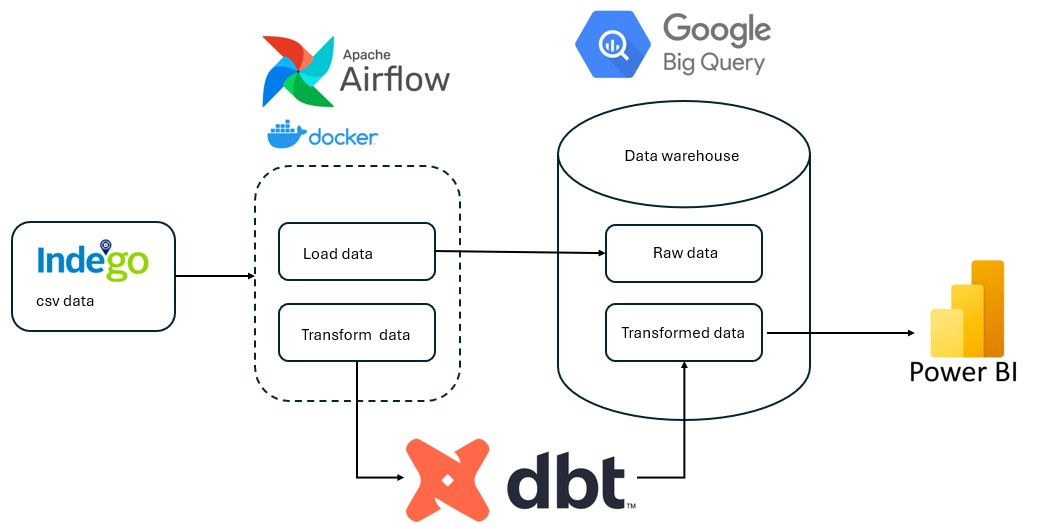
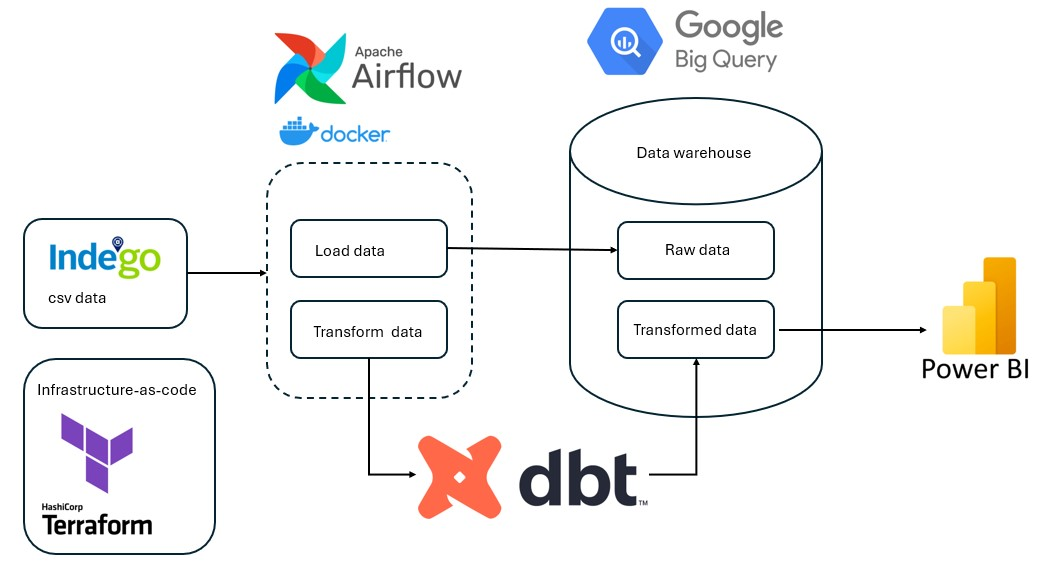
update readme

diff --git a/README.md b/README.md
@@ -24,6 +24,7 @@ The ETL pipeline is designed to Extract data from various sources, Transform it 
 ### Tools & Technology
 
 - **Cloud Provider:** Google Cloud Platform (GCP)
+- **Infrastructure as Code:** Terraform
 - **Orchestration:** Apache Airflow (Containerized with Docker)
 - **Data Processing:** DBT for transformations
 - **Storage & Querying:** GCS, BigQuery
@@ -35,7 +36,7 @@ The ETL pipeline is designed to Extract data from various sources, Transform it 
 
 **Step 1: Setup**
 
-- Set up GCP environment, Docker, and configure necessary IAM roles.
+- Set up GCP environment, Terraform, Docker, and configure necessary IAM roles.
 
 **Step 2: Data Ingestion & Loading**
 
